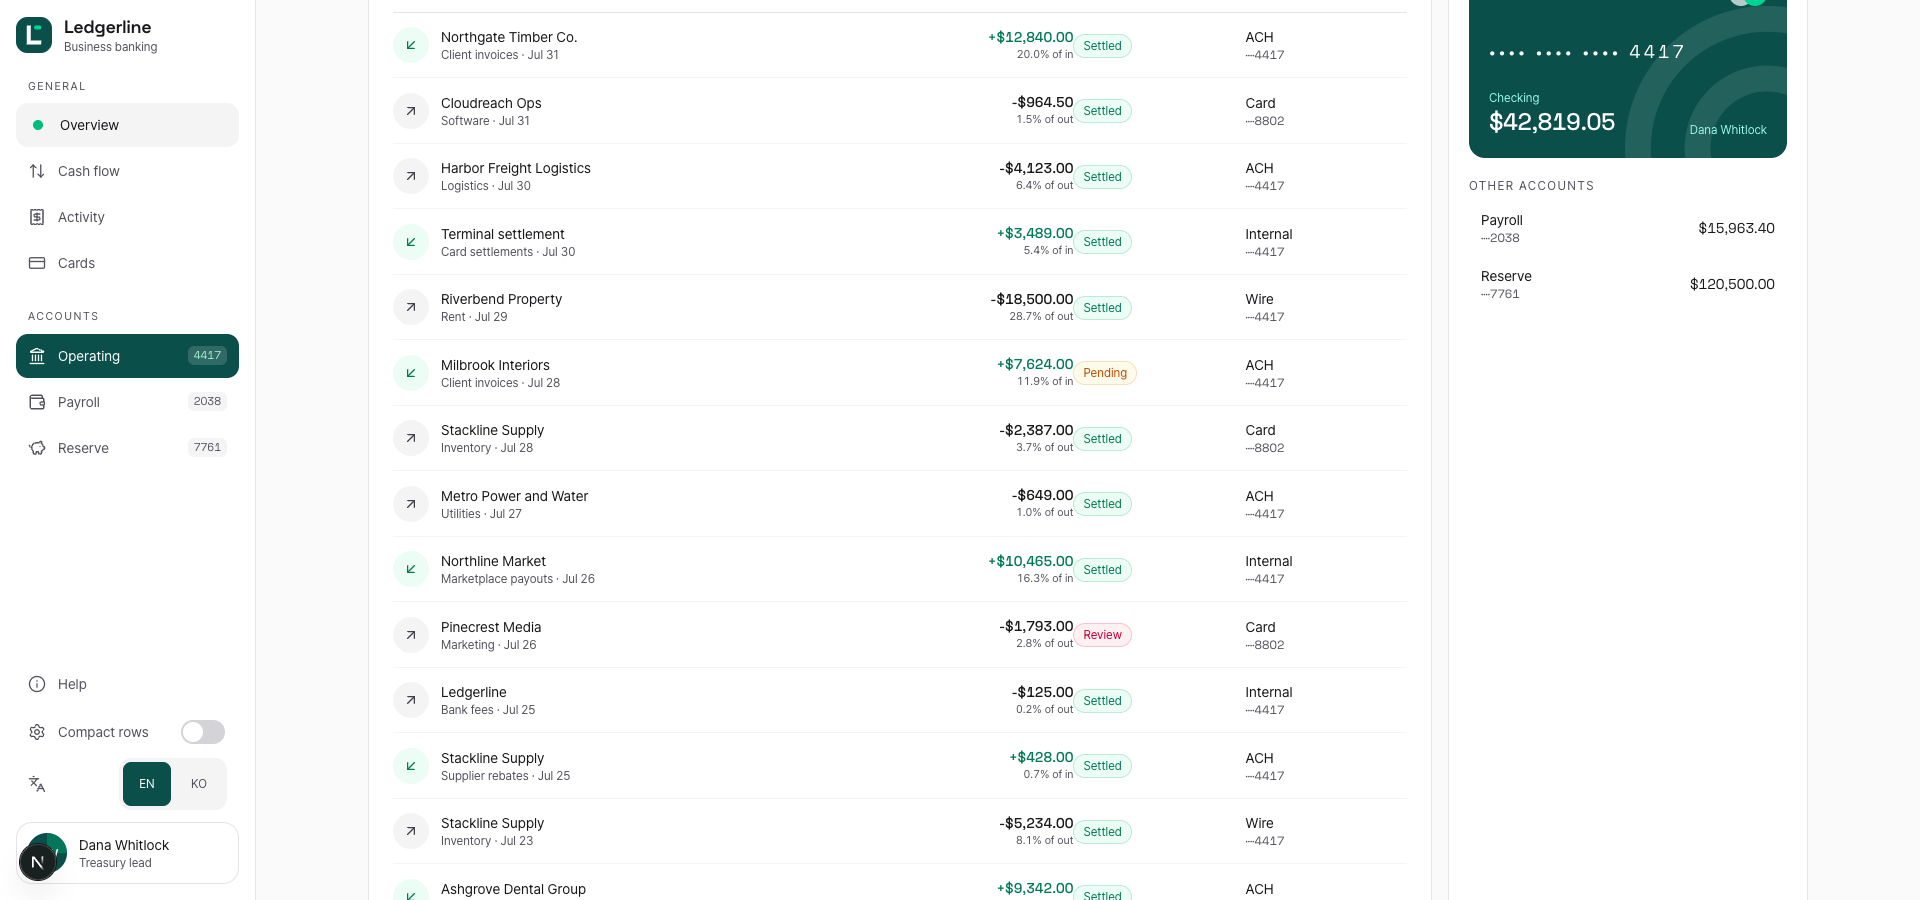
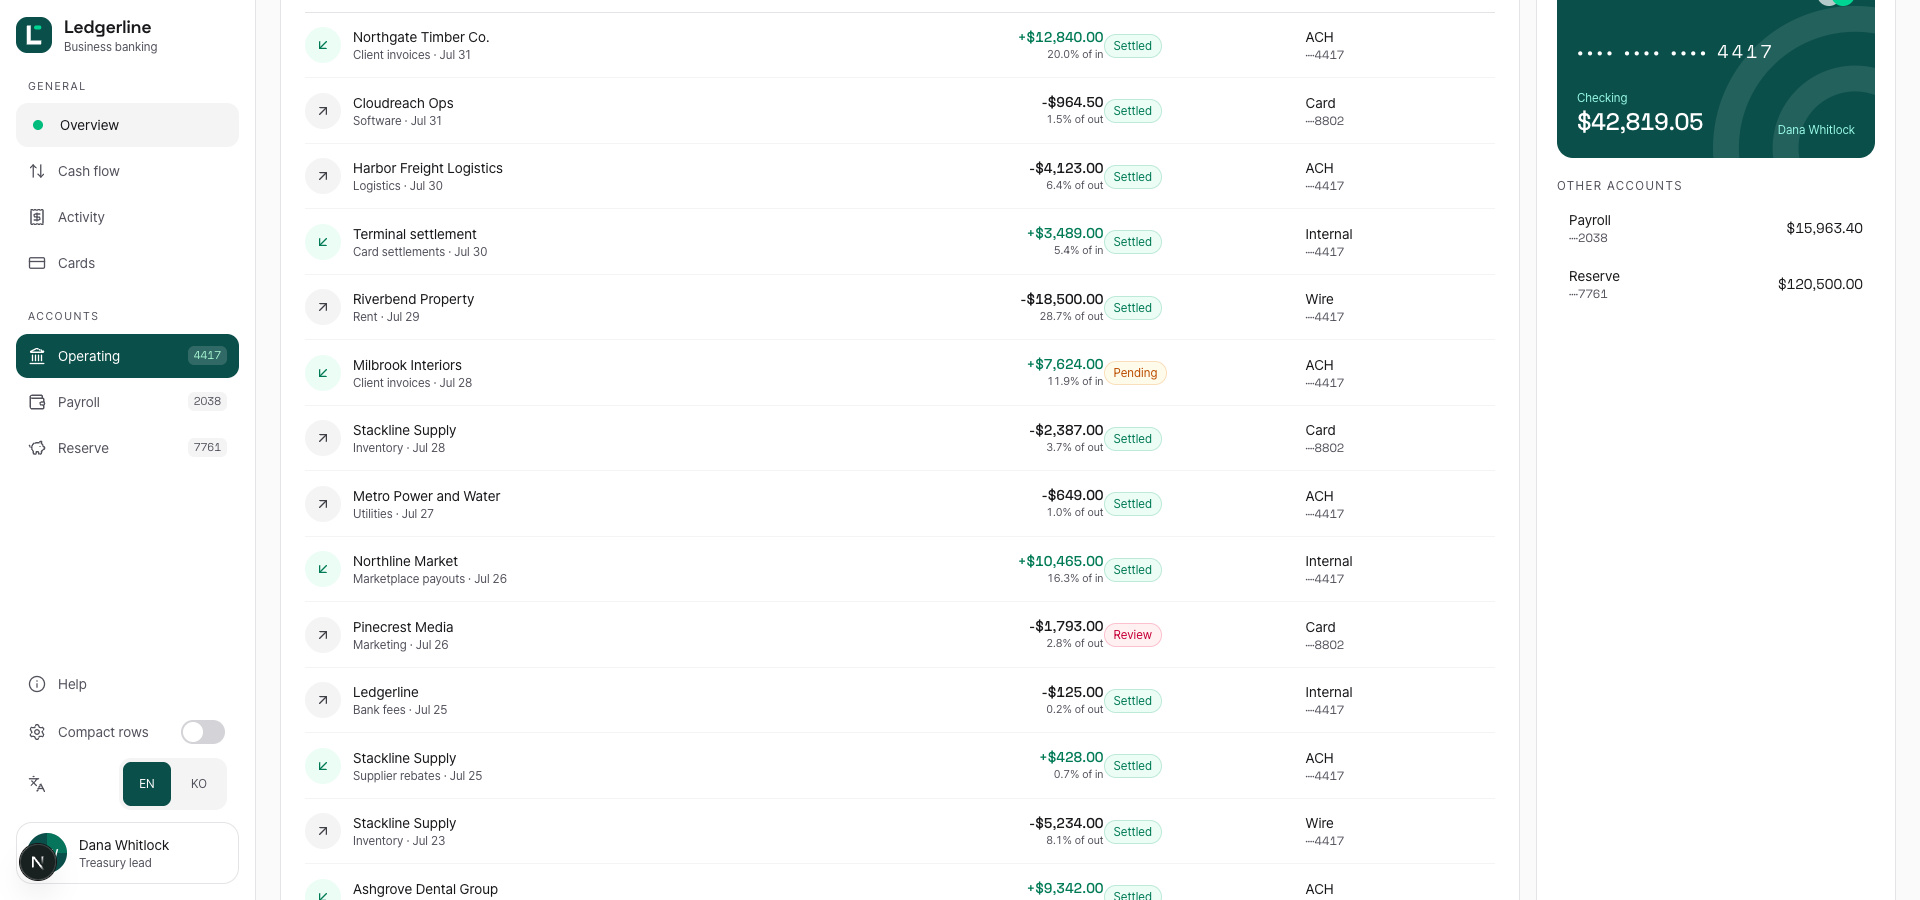
fix(commission): ledgerline 폭 캡 1440 → 1760
사용자가 양쪽 여백이 많다고 짚었고 실측으로 확인됐다. 본문 래퍼가
max-w-1440px이라 1920 화면에서 좌우 112px씩, 2560에서 432px씩 비었다.

dash-brief-v3 레이아웃 조항은 뷰포트 꽉 채움과 과한 max-w 금지와 초광폭만
완만 cap을 요구하는데, 1440 캡은 1920을 초광폭으로 취급한 셈이다. 사내
다른 대시보드는 1600에서 1920을 쓰고 d30은 1920에서 32px만 남긴다. 2차판
조차 24px였으므로 3차가 퇴행시킨 것이다.

사이드바 256과 좌우 패딩 48을 빼면 1920 화면의 가용폭이 1616이라, 1760은
뷰포트 2064px를 넘을 때만 걸린다. 1280부터 1920까지 여백이 24px로 d30과
동형이 되고 2560에서만 완만히 걸린다.

레퍼런스 목업은 브라우저 창 한 폭에서 찍힌 그림이라 캡을 알려주지 않는다.
폭 정책은 레퍼런스가 아니라 정본과 사내 사례에서 가져왔어야 했다.

diff --git a/app/src/app/commissioned/ledgerline/dashboard.tsx b/app/src/app/commissioned/ledgerline/dashboard.tsx
@@ -148,7 +148,11 @@ export default function LedgerlineDashboard() {
         />
 
         <main className="min-w-0 flex-1 px-4 py-5 md:px-6 md:py-6">
-          <div className="mx-auto flex w-full max-w-[1440px] flex-col gap-4">
+          {/* 1440 캡은 1920 화면에서 좌우 112px씩을 비워 [[dash-brief-v3]] §레이아웃("뷰포트 꽉
+              채움 · 과한 max-w 금지 · 초광폭만 완만 cap")을 어겼다. 사내 대시보드는 1600~1920을
+              쓰고 /dash/d30 은 1920 에서 32px 만 남긴다. 사이드바 256 + 좌우 패딩 48 을 빼면
+              1920 화면의 가용폭이 1616 이므로, 1760 은 뷰포트 ~2064px 를 넘을 때만 걸린다. */}
+          <div className="mx-auto flex w-full max-w-[1760px] flex-col gap-4">
             <Topbar
               lang={lang}
               period={period}

diff --git a/vault/40-commissions/ledgerline/RECORD.md b/vault/40-commissions/ledgerline/RECORD.md
@@ -107,6 +107,23 @@ sweep 전 폭 오버플로 0 · console 결함 0 · a11y 100 · perf 78
 
 `useEffect` 0건·비결정론 0건은 오케스트레이터가 실측 확인했다.
 
+## 5-1. 인수 후 수정 — 폭 캡 (2026-08-13)
+
+사용자가 *"콘텐츠 페이지에 양쪽 여백이 많은데?"*라고 짚었다. 실측으로 확인됐다.
+
+`dashboard.tsx`의 본문 래퍼가 `max-w-[1440px]`이라 **1920px 화면에서 좌우 112px씩, 2560px에서 432px씩** 비었다. [[dash-brief-v3]] §레이아웃이 *"뷰포트 꽉 채움(콘텐츠 유동, **과한 max-w 금지**, 초광폭만 완만 cap)"*을 요구하는데 1440 캡은 1920을 초광폭으로 취급한 셈이다.
+
+**사내 기준과도 어긋났다** — 다른 대시보드는 `1600`~`1920`을 쓰고 `/dash/d30`은 1920에서 32px만 남긴다. **2차판(`ledgerline-d30`)조차 24px였으므로 3차가 퇴행시킨 것이다.**
+
+`max-w-[1760px]`로 고쳤다. 사이드바 256 + 좌우 패딩 48을 빼면 1920 화면의 가용폭이 1616이라 **캡은 뷰포트 ~2064px를 넘을 때만 걸린다.**
+
+| 뷰포트 | 수정 전 | 수정 후 | d30 |
+|---|---|---|---|
+| 1280~1920 | 24~112px | **24px** | 32px |
+| 2560 | 432px | 272px | 304px |
+
+재게이트 9관문 통과. **교훈**: 레퍼런스 목업은 브라우저 창 한 폭에서 찍힌 그림이라 **캡을 알려주지 않는다.** 폭 정책은 레퍼런스가 아니라 정본과 사내 사례에서 가져와야 했다.
+
 ## 6. 실측 검증
 
 **언어 토글**: 기본 한글 **0자**·`lang=en` → KO **718자**·`lang=ko` → EN 복귀 **0자**·`lang=en`. 혼용 없음.
